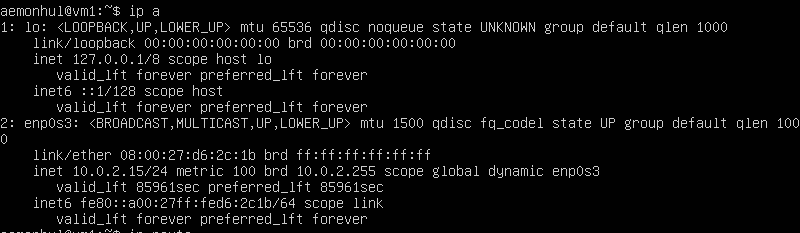
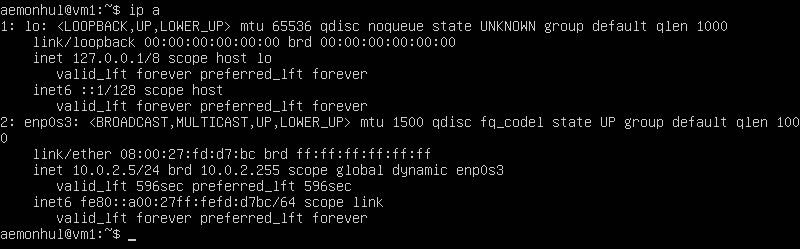
task 2

Changed region(s): [[0.0, 0.0, 1.0, 0.5708], [0.0, 0.6009, 0.75, 1.0]]

diff --git a/src/report.md b/src/report.md
@@ -38,18 +38,64 @@
 
 ## Опиши сетевой интерфейс, соответствующий внутренней сети, на обеих машинах и задай следующие адреса и маски: ws1 — 192.168.100.10, маска /16, ws2 — 172.24.116.8, маска /12.
 
-![](https://git.21-school.ru/students_repo/aemonhul/DO2_LinuxNetwork.ID_356275-1/raw/develop/src/image_for_md/vm1_netplan_yaml.png?ref_type=heads)
-- содержание файла конфигурации `etc/netplan/00-installer-config.yaml` на `ws1`
+![](https://git.21-school.ru/students_repo/aemonhul/DO2_LinuxNetwork.ID_356275-1/raw/develop/src/image_for_md/vm1_netplan_yaml_1.png?ref_type=heads)
+- вид файла конфигурации `etc/netplan/00-installer-config.yaml` на `ws1`
 
-![](https://git.21-school.ru/students_repo/aemonhul/DO2_LinuxNetwork.ID_356275-1/raw/develop/src/image_for_md/vm2_netplan_yaml.png?ref_type=heads)
-- содержание файла конфигурации `etc/netplan/00-installer-config.yaml` на `ws2`
+![](https://git.21-school.ru/students_repo/aemonhul/DO2_LinuxNetwork.ID_356275-1/raw/develop/src/image_for_md/vm2_netplan_yaml_1.png?ref_type=heads)
+- вид файла конфигурации `etc/netplan/00-installer-config.yaml` на `ws2`
 
 ## Выполни команду netplan apply для перезапуска сервиса сети.
 
-![](https://git.21-school.ru/students_repo/aemonhul/DO2_LinuxNetwork.ID_356275-1/raw/develop/src/image_for_md/vm1_netplanaplly.png?ref_type=heads)
+![](https://git.21-school.ru/students_repo/aemonhul/DO2_LinuxNetwork.ID_356275-1/raw/develop/src/image_for_md/vm1_netplan_apply.png?ref_type=heads)
 - вывод и вызов команды `netplan apply` на `ws1`
 
-![](https://git.21-school.ru/students_repo/aemonhul/DO2_LinuxNetwork.ID_356275-1/raw/develop/src/image_for_md/vm2_netplanapply.png?ref_type=heads)
+![](https://git.21-school.ru/students_repo/aemonhul/DO2_LinuxNetwork.ID_356275-1/raw/develop/src/image_for_md/vm2_netplan_apply.png?ref_type=heads)
 - вывод и вызов команды `netplan apply` на `ws2`
 
 ## 2.1. Добавление статического маршрута вручную
+
+- зашел в `tools` и создал `nat network`
+- изменил в настройках `ws1` и `ws2` `network` с `NAT` на `NAT network`, чтобы объединить машины в одну локальную сеть, ибо в режиме `NAT` вм изолированы друг от друга
+
+## Добавь статический маршрут от одной машины до другой и обратно при помощи команды вида ip r add.
+
+![](https://git.21-school.ru/students_repo/aemonhul/DO2_LinuxNetwork.ID_356275-1/raw/develop/src/image_for_md/vm1_ipr_add.png?ref_type=heads)
+- использование команды `ip r add` на `ws1`
+
+![](https://git.21-school.ru/students_repo/aemonhul/DO2_LinuxNetwork.ID_356275-1/raw/develop/src/image_for_md/vm2_ipr_add.png?ref_type=heads)
+- использование команды `ip r add` на `ws2`
+
+## Пропингуй соединение между машинами.
+
+![](https://git.21-school.ru/students_repo/aemonhul/DO2_LinuxNetwork.ID_356275-1/raw/develop/src/image_for_md/vm1_ping_1.png?ref_type=heads)
+- пинг `ws2` на `ws1` командой `ping`
+
+![](https://git.21-school.ru/students_repo/aemonhul/DO2_LinuxNetwork.ID_356275-1/raw/develop/src/image_for_md/vm2_ping_1.png?ref_type=heads)
+- пинг `ws1` на `ws2` командой `ping`
+
+## 2.2. Добавление статического маршрута с сохранением
+
+## Перезапусти машины.
+
+- прописал команду `reboot` на `ws1` и `ws2`
+
+## Добавь статический маршрут от одной машины до другой с помощью файла /etc/netplan/00-installer-config.yaml.
+
+![](https://git.21-school.ru/students_repo/aemonhul/DO2_LinuxNetwork.ID_356275-1/raw/develop/src/image_for_md/vm1_netplan_yaml_2.png?ref_type=heads)
+- вид файла конфигурации `etc/netplan/00-installer-config.yaml` на `ws1`
+
+![](https://git.21-school.ru/students_repo/aemonhul/DO2_LinuxNetwork.ID_356275-1/raw/develop/src/image_for_md/vm2_netplan_yaml_2.png?ref_type=heads)
+- вид файла конфигурации `etc/netplan/00-installer-config.yaml` на `ws2`
+
+## Пропингуй соединение между машинами.
+
+![](https://git.21-school.ru/students_repo/aemonhul/DO2_LinuxNetwork.ID_356275-1/raw/develop/src/image_for_md/vm1_ping_2.png?ref_type=heads)
+- пинг `ws2` на `ws1` командой `ping`
+
+![](https://git.21-school.ru/students_repo/aemonhul/DO2_LinuxNetwork.ID_356275-1/raw/develop/src/image_for_md/vm2_ping_2.png?ref_type=heads)
+- пинг `ws1` на `ws2` командой `ping`
+
+
+
+
+
